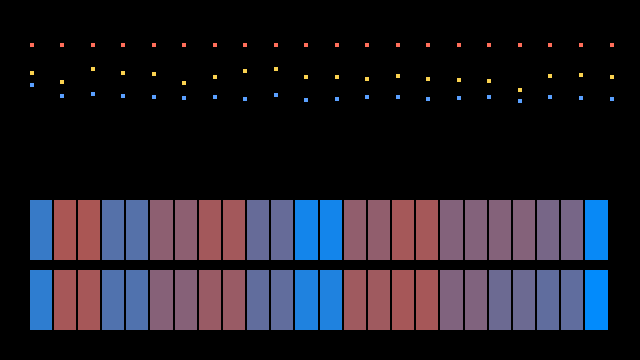
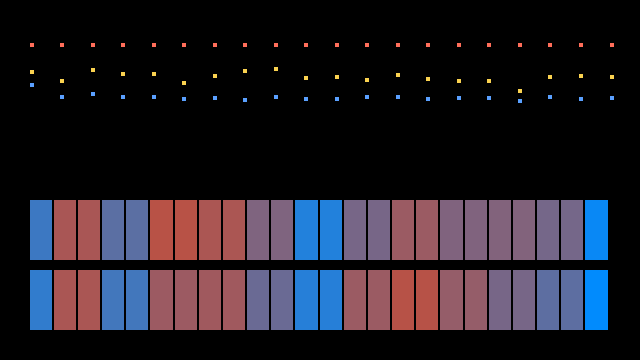
Phase 2, step 1: the cortex learns what it sees
test_cortex.c (5 checks, three brains averaged, --slow): learning makes the
visual cortex and the temporal lobe selective for what is seen, and the
temporal lobe holds its pattern across eye movements better than the visual
cortex (0.69 against 0.56), as along the real ventral stream; without
learning, neither. The trace rule did not help (0.62 with it), and is off.
test_one.c still passes all 16 with the learning cortex. The newborn's diary
and pictures are regrown with the entorhinal cortex.

Claude-Session: https://claude.ai/code/session_01E52XeqCtPBcEETa4hfkaRr

Changed region(s): [[0.5312, 0.55, 0.625, 0.7333], [0.375, 0.55, 0.4688, 0.7333], [0.2188, 0.55, 0.3125, 0.7333]]

diff --git a/brain/README.md b/brain/README.md
@@ -271,6 +271,38 @@ the second time (surprise 2.35, then 0.95; without memory, 2.35 then 2.27). Its
 mother's answers surprise it a little more with memory than without (0.15
 against 0.08): it has not wholly learned where memory misleads.
 
+## Its cortex learns what it sees
+
+After birth its cortex's feedforward pathways learn: the thalamus into layer
+4, layer 4 up to layers 2/3, the visual cortex on into the temporal ("what")
+and parietal ("where") lobes, and on through the entorhinal cortex (grown as
+the strip of the temporal lobe beside the hippocampus, its gateway) into the
+hippocampus. Within each area the most strongly driven tenth fire, and each
+that fires moves its synapses towards what drove it (competitive Hebbian
+learning). Where moments must be kept apart (temporal lobe, entorhinal
+cortex, hippocampus), homeostasis raises the threshold of a neuron that fires
+too often, so the same few cannot answer everything; without it the temporal
+lobe collapsed onto one pattern for every view.
+
+`test_cortex.c` (5 checks, three brains averaged; `--slow`): moments well apart
+in time are compared, when its eyes were on the same view, one eye-step away,
+or far.
+
+| | no learning | learning |
+|---|---|---|
+| visual cortex: selectivity / invariance | 0.42 / 0.46 | 0.55 / 0.56 |
+| temporal lobe: selectivity / invariance | 0.13 / 0.35 | 0.32 / 0.69 |
+
+Learning makes both areas selective for what is seen, and, as along the real
+ventral stream, the temporal lobe holds its pattern across eye movements better
+than the visual cortex (on average; in four brains of six). Each temporal
+neuron pools widely over the visual cortex, and pooling gives that. Foldiak's
+trace rule (learning from a neuron's recent firing, so that what stays while
+the eyes move is answered as one thing) looked decisive in one brain and did
+worse than none over six: it is off, and still measured (0.62 with it, 0.69
+without). The hippocampus now has patterns of its own for what it sees (about
+0.5 alike for the same view, 0.25 for a far one, where before it was noise).
+
 ## The newborn
 
 ```

diff --git a/research/ONE_BRAIN.md b/research/ONE_BRAIN.md
@@ -51,6 +51,10 @@ filing its own: filing moments under the hippocampus's own neurons waits for a
 cortex whose patterns repeat when the world does, which is phase 2's first job
 too (the mind's object map needs the same).
 
+**Phase 2, step 1, done:** its cortex learns what it sees (`test_cortex.c`); the
+entorhinal cortex is grown as the hippocampus's gateway; its hippocampus has
+patterns of its own. Next: its memory filed under those patterns.
+
 The life brain (`ob_life.c`) stays as the sketch it was: smaller, faster, and
 the thing to compare the one brain against. Where the one brain does worse
 than the sketch, that is a result, written down.
